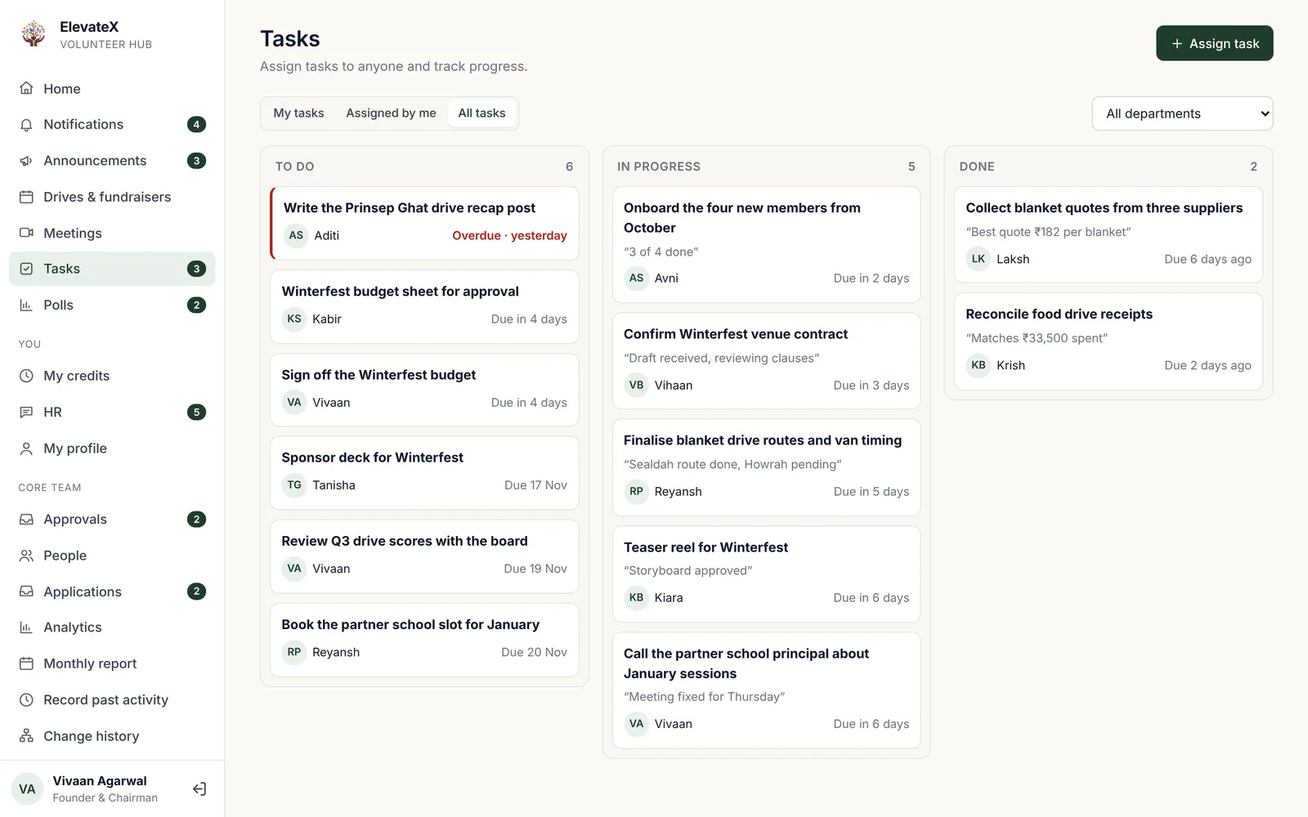
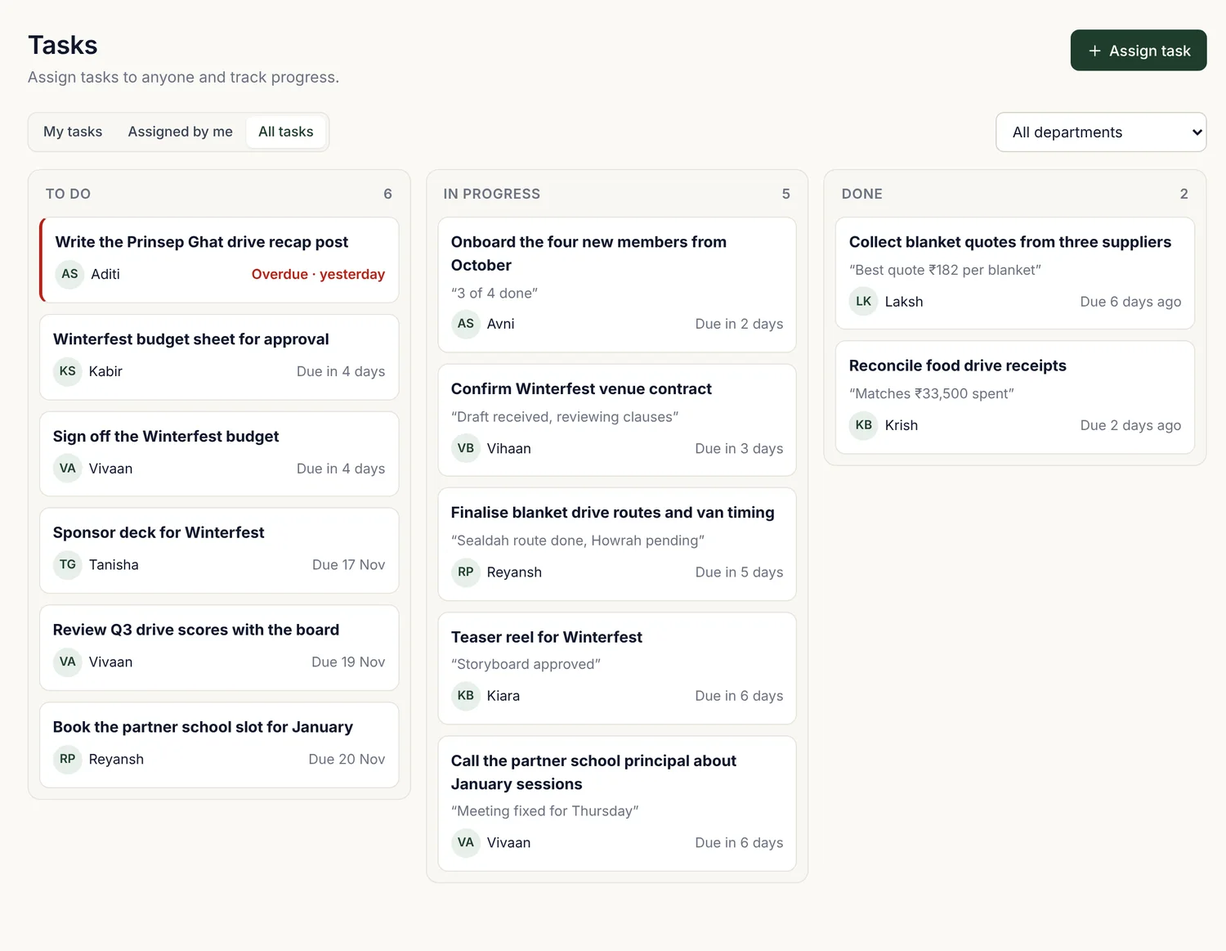
Volunteer Hub page: add to navbar, larger cropped screenshots, simpler layout
Claude-Session: https://claude.ai/code/session_01Lx7J7qeooFrwHwa6nHs7zz

diff --git a/volunteer-hub.html b/volunteer-hub.html
@@ -28,7 +28,7 @@
 <header class="site-header">
   <div class="wrap nav">
     <a href="index.html" class="brand"><img loading="lazy" decoding="async" src="logo-icon.png" alt="" width="38" height="38">ElevateX</a>
-    <nav class="nav-links" aria-label="Main"><a href="about.html">About</a><a href="welfare.html">Drives</a><a href="fundraising.html">Events</a><a href="unnati.html">Unnati</a><a href="team.html">Team</a><a href="timeline.html">Timeline</a><a href="blog.html">Blog</a><a href="resources.html">Resources</a></nav>
+    <nav class="nav-links" aria-label="Main"><a href="about.html">About</a><a href="welfare.html">Drives</a><a href="fundraising.html">Events</a><a href="unnati.html">Unnati</a><a href="volunteer-hub.html" aria-current=page>Hub</a><a href="team.html">Team</a><a href="timeline.html">Timeline</a><a href="blog.html">Blog</a><a href="resources.html">Resources</a></nav>
     <div class="nav-actions">
       <a href="contact.html" class="btn btn-ghost">Apply</a>
       <a href="https://hub.elevate-x.in" class="btn btn-primary">Volunteer login</a>
@@ -43,7 +43,7 @@
       <a href="index.html" class="brand"><img loading="lazy" decoding="async" src="logo-icon.png" alt="" width="38" height="38">ElevateX</a>
       <button class="sheet-close" aria-label="Close menu">×</button>
     </div>
-    <nav aria-label="Main"><a href="about.html">About</a><a href="welfare.html">Drives</a><a href="fundraising.html">Events</a><a href="unnati.html">Unnati</a><a href="team.html">Team</a><a href="timeline.html">Timeline</a><a href="blog.html">Blog</a><a href="resources.html">Resources</a></nav>
+    <nav aria-label="Main"><a href="about.html">About</a><a href="welfare.html">Drives</a><a href="fundraising.html">Events</a><a href="unnati.html">Unnati</a><a href="volunteer-hub.html" aria-current=page>Hub</a><a href="team.html">Team</a><a href="timeline.html">Timeline</a><a href="blog.html">Blog</a><a href="resources.html">Resources</a></nav>
     <div class="sheet-actions">
       <a href="contact.html" class="btn btn-ghost">Apply to join</a>
       <a href="https://hub.elevate-x.in" class="btn btn-primary">Volunteer login</a>
@@ -71,16 +71,6 @@
 </section>
 
 <section class="section tight">
-  <div class="wrap reveal">
-    <div class="stats">
-      <div class="stat"><b>1</b><span>place for every drive, meeting and task</span></div>
-      <div class="stat"><b>5</b><span>departments, each with its own workspace</span></div>
-      <div class="stat"><b>EDPI</b><span>score for every drive we run</span></div>
-    </div>
-  </div>
-</section>
-
-<section class="section tight">
   <div class="wrap split hub-split">
     <div class="prose reveal">
       <span class="eyebrow">Drives</span>
@@ -88,7 +78,7 @@
       <p>Any member can propose a drive. Someone from the core team reviews the plan and approves it, and everyone is notified the moment it goes live.</p>
       <p>Volunteering takes one tap. When a drive fills up, members join a waitlist and are told as soon as a spot opens. Every activity carries its own map link or meeting link, instructions and organiser.</p>
     </div>
-    <figure class="shot reveal"><div class="shot-bar"><i></i><i></i><i></i></div><img loading="lazy" decoding="async" width="1600" height="1000" src="hub/drive.webp" alt="A drive page in the Hub, showing details, instructions and a full drive with a waitlist"></figure>
+    <figure class="shot reveal"><div class="shot-bar"><i></i><i></i><i></i></div><img loading="lazy" decoding="async" width="1500" height="1163" src="hub/drive.webp" alt="A drive page in the Hub, showing details, instructions and a full drive with a waitlist"></figure>
   </div>
 </section>
 
@@ -100,7 +90,7 @@
       <p>Before a drive starts, the organiser locks a plan: the target, the budget and the number of volunteers. Afterwards we record what actually happened, and the Hub works out the drive's <a href="welfare.html">EDPI score</a>.</p>
       <p>Each drive ends with a one-page report, with the score, the money spent per person helped, photos and the full volunteer list. It's ready to print or share with a partner.</p>
     </div>
-    <figure class="shot reveal"><div class="shot-bar"><i></i><i></i><i></i></div><img loading="lazy" decoding="async" width="1600" height="1000" src="hub/report.webp" alt="A one-page drive report with an EDPI score of 110.8, people helped, budget and photos"></figure>
+    <figure class="shot reveal"><div class="shot-bar"><i></i><i></i><i></i></div><img loading="lazy" decoding="async" width="1500" height="1125" src="hub/report.webp" alt="A one-page drive report with an EDPI score of 110.8, people helped, budget and photos"></figure>
   </div>
 </section>
 
@@ -112,7 +102,7 @@
       <p>Everyone marked present at a drive, event or meeting gets credits automatically. Nobody can mark their own attendance. Members can see their own record at any time and use it to request a certificate.</p>
       <p>Leadership sees the whole picture: credits by month, drive scores side by side, and who's been showing up.</p>
     </div>
-    <figure class="shot reveal"><div class="shot-bar"><i></i><i></i><i></i></div><img loading="lazy" decoding="async" width="1600" height="1000" src="hub/analytics.webp" alt="Analytics with EDPI by drive, credits by month, drive scores and top contributors"></figure>
+    <figure class="shot reveal"><div class="shot-bar"><i></i><i></i><i></i></div><img loading="lazy" decoding="async" width="1500" height="801" src="hub/analytics.webp" alt="Analytics with EDPI by drive, credits by month, drive scores and top contributors"></figure>
   </div>
 </section>
 
@@ -124,7 +114,7 @@
       <p>Heads assign tasks within their department, and leadership can assign to anyone. Each task has an owner, a due date and a progress note, so nothing depends on remembering a WhatsApp message.</p>
       <p>Meetings, announcements and polls work the same way: aimed at exactly the right people, whether that's the whole organisation, one department or the board.</p>
     </div>
-    <figure class="shot reveal"><div class="shot-bar"><i></i><i></i><i></i></div><img loading="lazy" decoding="async" width="1600" height="1000" src="hub/tasks.webp" alt="A task board with to do, in progress and done columns across departments"></figure>
+    <figure class="shot reveal"><div class="shot-bar"><i></i><i></i><i></i></div><img loading="lazy" decoding="async" width="1500" height="1163" src="hub/tasks.webp" alt="A task board with to do, in progress and done columns across departments"></figure>
   </div>
 </section>
 
@@ -134,13 +124,15 @@
       <span class="eyebrow">Also in the Hub</span>
       <h2>The rest of the toolkit</h2>
     </div>
-    <div class="hub-grid">
-      <figure class="reveal"><div class="shot"><img loading="lazy" decoding="async" width="1600" height="1000" src="hub/applications.webp" alt="Applications inbox"></div><figcaption><b>Applications</b>Applications from this website arrive here. HR reviews them, and accepted applicants get an account in one click.</figcaption></figure>
-      <figure class="reveal"><div class="shot"><img loading="lazy" decoding="async" width="1600" height="1000" src="hub/polls.webp" alt="Polls with live results"></div><figcaption><b>Polls</b>Quick votes on themes, dates and venues, for everyone or for a single department.</figcaption></figure>
-      <figure class="reveal"><div class="shot"><img loading="lazy" decoding="async" width="1600" height="1000" src="hub/announcements.webp" alt="Announcement board"></div><figcaption><b>Announcements</b>One board for news, with read receipts, so important updates don't get lost in a group chat.</figcaption></figure>
-      <figure class="reveal"><div class="shot"><img loading="lazy" decoding="async" width="1600" height="1000" src="hub/monthly.webp" alt="Monthly report for October"></div><figcaption><b>Monthly report</b>Every month in one page, with activities, scores and how each department did, ready for the board.</figcaption></figure>
-      <figure class="reveal"><div class="shot"><img loading="lazy" decoding="async" width="1600" height="1000" src="hub/history.webp" alt="Change history log"></div><figcaption><b>Change history</b>Every change to people, credits, approvals and certificates is logged with who made it. Entries can't be edited.</figcaption></figure>
-      <figure class="reveal"><div class="shot"><img loading="lazy" decoding="async" width="1600" height="1000" src="hub/org.webp" alt="Organisation structure"></div><figcaption><b>Structure</b>Leadership, the Board of Advisors and five departments. Who you can reach, and who decides what, is always clear.</figcaption></figure>
+    <div class="hub-pair">
+      <figure class="reveal"><div class="shot"><div class="shot-bar"><i></i><i></i><i></i></div><img loading="lazy" decoding="async" width="1500" height="775" src="hub/applications.webp" alt="Applications inbox in the Hub with new, reviewing and interview statuses"></div><figcaption><b>Applications</b>Applications from this website arrive straight in the Hub. HR reviews them, and accepted applicants get an account in one click.</figcaption></figure>
+      <figure class="reveal"><div class="shot"><div class="shot-bar"><i></i><i></i><i></i></div><img loading="lazy" decoding="async" width="1500" height="905" src="hub/history.webp" alt="Change history showing who changed what and when"></div><figcaption><b>Change history</b>Every change to people, credits, approvals and certificates is logged with who made it. Nobody can edit or delete an entry.</figcaption></figure>
+    </div>
+    <div class="hub-cards">
+      <div class="reveal"><b>Announcements</b><span>One board for news, with read receipts, so updates don't get lost in a group chat.</span></div>
+      <div class="reveal"><b>Polls</b><span>Quick votes on themes, dates and venues, for everyone or for one department.</span></div>
+      <div class="reveal"><b>Monthly report</b><span>Each month on one page: activities, scores and how every department did.</span></div>
+      <div class="reveal"><b>HR and certificates</b><span>Feedback, department moves and certificate requests, with credits attached automatically.</span></div>
     </div>
   </div>
 </section>

diff --git a/_src/pages/volunteer-hub.html b/_src/pages/volunteer-hub.html
@@ -1,7 +1,7 @@
 <!--
 title: The Volunteer Hub
 description: How ElevateX runs: our members-only Volunteer Hub handles drive proposals, approvals, sign-ups, attendance, credits, EDPI scores and HR, all in one place.
-nav:
+nav: hub
 image: hub/dashboard.webp
 -->
 <section class="page-head">
@@ -19,16 +19,6 @@ image: hub/dashboard.webp
       <img src="hub/dashboard.webp" alt="The Volunteer Hub home screen, showing credits, a pinned announcement, upcoming meetings, tasks and drives" data-eager>
     </figure>
     <p class="shot-note">The Hub is for members only. Every screenshot on this page uses sample data, so no real member's details are shown.</p>
-  </div>
-</section>
-
-<section class="section tight">
-  <div class="wrap reveal">
-    <div class="stats">
-      <div class="stat"><b>1</b><span>place for every drive, meeting and task</span></div>
-      <div class="stat"><b>5</b><span>departments, each with its own workspace</span></div>
-      <div class="stat"><b>EDPI</b><span>score for every drive we run</span></div>
-    </div>
   </div>
 </section>
 
@@ -86,13 +76,15 @@ image: hub/dashboard.webp
       <span class="eyebrow">Also in the Hub</span>
       <h2>The rest of the toolkit</h2>
     </div>
-    <div class="hub-grid">
-      <figure class="reveal"><div class="shot"><img src="hub/applications.webp" alt="Applications inbox"></div><figcaption><b>Applications</b>Applications from this website arrive here. HR reviews them, and accepted applicants get an account in one click.</figcaption></figure>
-      <figure class="reveal"><div class="shot"><img src="hub/polls.webp" alt="Polls with live results"></div><figcaption><b>Polls</b>Quick votes on themes, dates and venues, for everyone or for a single department.</figcaption></figure>
-      <figure class="reveal"><div class="shot"><img src="hub/announcements.webp" alt="Announcement board"></div><figcaption><b>Announcements</b>One board for news, with read receipts, so important updates don't get lost in a group chat.</figcaption></figure>
-      <figure class="reveal"><div class="shot"><img src="hub/monthly.webp" alt="Monthly report for October"></div><figcaption><b>Monthly report</b>Every month in one page, with activities, scores and how each department did, ready for the board.</figcaption></figure>
-      <figure class="reveal"><div class="shot"><img src="hub/history.webp" alt="Change history log"></div><figcaption><b>Change history</b>Every change to people, credits, approvals and certificates is logged with who made it. Entries can't be edited.</figcaption></figure>
-      <figure class="reveal"><div class="shot"><img src="hub/org.webp" alt="Organisation structure"></div><figcaption><b>Structure</b>Leadership, the Board of Advisors and five departments. Who you can reach, and who decides what, is always clear.</figcaption></figure>
+    <div class="hub-pair">
+      <figure class="reveal"><div class="shot"><div class="shot-bar"><i></i><i></i><i></i></div><img src="hub/applications.webp" alt="Applications inbox in the Hub with new, reviewing and interview statuses"></div><figcaption><b>Applications</b>Applications from this website arrive straight in the Hub. HR reviews them, and accepted applicants get an account in one click.</figcaption></figure>
+      <figure class="reveal"><div class="shot"><div class="shot-bar"><i></i><i></i><i></i></div><img src="hub/history.webp" alt="Change history showing who changed what and when"></div><figcaption><b>Change history</b>Every change to people, credits, approvals and certificates is logged with who made it. Nobody can edit or delete an entry.</figcaption></figure>
+    </div>
+    <div class="hub-cards">
+      <div class="reveal"><b>Announcements</b><span>One board for news, with read receipts, so updates don't get lost in a group chat.</span></div>
+      <div class="reveal"><b>Polls</b><span>Quick votes on themes, dates and venues, for everyone or for one department.</span></div>
+      <div class="reveal"><b>Monthly report</b><span>Each month on one page: activities, scores and how every department did.</span></div>
+      <div class="reveal"><b>HR and certificates</b><span>Feedback, department moves and certificate requests, with credits attached automatically.</span></div>
     </div>
   </div>
 </section>

diff --git a/styles.css b/styles.css
@@ -428,16 +428,18 @@ a.card:hover .media img { transform: scale(1.03); }
 /* Volunteer Hub showcase */
 .shot { border: 1px solid var(--line); border-radius: 14px; overflow: hidden; background: #fff; box-shadow: 0 1px 2px rgba(23,25,28,.05), 0 18px 40px -18px rgba(23,25,28,.22); margin: 0; }
 .shot img { display: block; width: 100%; height: auto; }
-.shot-bar { display: flex; align-items: center; gap: 6px; padding: 10px 14px; background: var(--bg-2); border-bottom: 1px solid var(--line); }
+.shot-bar { display: flex; align-items: center; gap: 6px; padding: 9px 14px; background: var(--bg-2); border-bottom: 1px solid var(--line); }
 .shot-bar i { width: 10px; height: 10px; border-radius: 50%; background: #d9d3c6; }
 .shot-bar span { margin-left: 12px; font-size: 13px; color: var(--muted); background: #fff; border: 1px solid var(--line); border-radius: 6px; padding: 2px 12px; }
-.shot-hero { max-width: 1120px; margin: 0 auto; }
 .shot-note { text-align: center; font-size: 14px; color: var(--muted); margin: 16px 0 0; }
-.hub-split { grid-template-columns: 1fr 1.25fr; }
-.hub-split.flip { grid-template-columns: 1.25fr 1fr; }
-.hub-grid { display: grid; grid-template-columns: repeat(3, 1fr); gap: 28px; }
-.hub-grid figure { margin: 0; }
-.hub-grid figcaption { margin-top: 14px; font-size: 15px; color: var(--ink-2); line-height: 1.5; }
-.hub-grid figcaption b { display: block; color: var(--ink); font-size: 17px; margin-bottom: 4px; }
-@media (max-width: 960px) { .hub-split, .hub-split.flip { grid-template-columns: 1fr; } .hub-grid { grid-template-columns: repeat(2, 1fr); } }
-@media (max-width: 640px) { .hub-grid { grid-template-columns: 1fr; } .shot-bar span { display: none; } }
+.hub-split { grid-template-columns: 1fr 1.5fr; gap: 48px; }
+.hub-split.flip { grid-template-columns: 1.5fr 1fr; }
+.hub-pair { display: grid; grid-template-columns: 1fr 1fr; gap: 28px; }
+.hub-pair figure { margin: 0; }
+.hub-pair figcaption, .hub-cards span { font-size: 15px; color: var(--ink-2); line-height: 1.55; }
+.hub-pair figcaption { margin-top: 14px; }
+.hub-pair b, .hub-cards b { display: block; color: var(--ink); font-size: 17px; margin-bottom: 4px; }
+.hub-cards { display: grid; grid-template-columns: repeat(4, 1fr); gap: 18px; margin-top: 28px; }
+.hub-cards > div { background: var(--card); border: 1px solid var(--line); border-radius: var(--radius); padding: 20px; }
+@media (max-width: 960px) { .hub-split, .hub-split.flip, .hub-pair { grid-template-columns: 1fr; } .hub-cards { grid-template-columns: repeat(2, 1fr); } }
+@media (max-width: 560px) { .hub-cards { grid-template-columns: 1fr; } .shot-bar span { display: none; } }

diff --git a/about.html b/about.html
@@ -28,7 +28,7 @@
 <header class="site-header">
   <div class="wrap nav">
     <a href="index.html" class="brand"><img loading="lazy" decoding="async" src="logo-icon.png" alt="" width="38" height="38">ElevateX</a>
-    <nav class="nav-links" aria-label="Main"><a href="about.html" aria-current=page>About</a><a href="welfare.html">Drives</a><a href="fundraising.html">Events</a><a href="unnati.html">Unnati</a><a href="team.html">Team</a><a href="timeline.html">Timeline</a><a href="blog.html">Blog</a><a href="resources.html">Resources</a></nav>
+    <nav class="nav-links" aria-label="Main"><a href="about.html" aria-current=page>About</a><a href="welfare.html">Drives</a><a href="fundraising.html">Events</a><a href="unnati.html">Unnati</a><a href="volunteer-hub.html">Hub</a><a href="team.html">Team</a><a href="timeline.html">Timeline</a><a href="blog.html">Blog</a><a href="resources.html">Resources</a></nav>
     <div class="nav-actions">
       <a href="contact.html" class="btn btn-ghost">Apply</a>
       <a href="https://hub.elevate-x.in" class="btn btn-primary">Volunteer login</a>
@@ -43,7 +43,7 @@
       <a href="index.html" class="brand"><img loading="lazy" decoding="async" src="logo-icon.png" alt="" width="38" height="38">ElevateX</a>
       <button class="sheet-close" aria-label="Close menu">×</button>
     </div>
-    <nav aria-label="Main"><a href="about.html" aria-current=page>About</a><a href="welfare.html">Drives</a><a href="fundraising.html">Events</a><a href="unnati.html">Unnati</a><a href="team.html">Team</a><a href="timeline.html">Timeline</a><a href="blog.html">Blog</a><a href="resources.html">Resources</a></nav>
+    <nav aria-label="Main"><a href="about.html" aria-current=page>About</a><a href="welfare.html">Drives</a><a href="fundraising.html">Events</a><a href="unnati.html">Unnati</a><a href="volunteer-hub.html">Hub</a><a href="team.html">Team</a><a href="timeline.html">Timeline</a><a href="blog.html">Blog</a><a href="resources.html">Resources</a></nav>
     <div class="sheet-actions">
       <a href="contact.html" class="btn btn-ghost">Apply to join</a>
       <a href="https://hub.elevate-x.in" class="btn btn-primary">Volunteer login</a>

diff --git a/blog.html b/blog.html
@@ -28,7 +28,7 @@
 <header class="site-header">
   <div class="wrap nav">
     <a href="index.html" class="brand"><img loading="lazy" decoding="async" src="logo-icon.png" alt="" width="38" height="38">ElevateX</a>
-    <nav class="nav-links" aria-label="Main"><a href="about.html">About</a><a href="welfare.html">Drives</a><a href="fundraising.html">Events</a><a href="unnati.html">Unnati</a><a href="team.html">Team</a><a href="timeline.html">Timeline</a><a href="blog.html" aria-current=page>Blog</a><a href="resources.html">Resources</a></nav>
+    <nav class="nav-links" aria-label="Main"><a href="about.html">About</a><a href="welfare.html">Drives</a><a href="fundraising.html">Events</a><a href="unnati.html">Unnati</a><a href="volunteer-hub.html">Hub</a><a href="team.html">Team</a><a href="timeline.html">Timeline</a><a href="blog.html" aria-current=page>Blog</a><a href="resources.html">Resources</a></nav>
     <div class="nav-actions">
       <a href="contact.html" class="btn btn-ghost">Apply</a>
       <a href="https://hub.elevate-x.in" class="btn btn-primary">Volunteer login</a>
@@ -43,7 +43,7 @@
       <a href="index.html" class="brand"><img loading="lazy" decoding="async" src="logo-icon.png" alt="" width="38" height="38">ElevateX</a>
       <button class="sheet-close" aria-label="Close menu">×</button>
     </div>
-    <nav aria-label="Main"><a href="about.html">About</a><a href="welfare.html">Drives</a><a href="fundraising.html">Events</a><a href="unnati.html">Unnati</a><a href="team.html">Team</a><a href="timeline.html">Timeline</a><a href="blog.html" aria-current=page>Blog</a><a href="resources.html">Resources</a></nav>
+    <nav aria-label="Main"><a href="about.html">About</a><a href="welfare.html">Drives</a><a href="fundraising.html">Events</a><a href="unnati.html">Unnati</a><a href="volunteer-hub.html">Hub</a><a href="team.html">Team</a><a href="timeline.html">Timeline</a><a href="blog.html" aria-current=page>Blog</a><a href="resources.html">Resources</a></nav>
     <div class="sheet-actions">
       <a href="contact.html" class="btn btn-ghost">Apply to join</a>
       <a href="https://hub.elevate-x.in" class="btn btn-primary">Volunteer login</a>

diff --git a/blog1.html b/blog1.html
@@ -28,7 +28,7 @@
 <header class="site-header">
   <div class="wrap nav">
     <a href="index.html" class="brand"><img loading="lazy" decoding="async" src="logo-icon.png" alt="" width="38" height="38">ElevateX</a>
-    <nav class="nav-links" aria-label="Main"><a href="about.html">About</a><a href="welfare.html">Drives</a><a href="fundraising.html">Events</a><a href="unnati.html">Unnati</a><a href="team.html">Team</a><a href="timeline.html">Timeline</a><a href="blog.html" aria-current=page>Blog</a><a href="resources.html">Resources</a></nav>
+    <nav class="nav-links" aria-label="Main"><a href="about.html">About</a><a href="welfare.html">Drives</a><a href="fundraising.html">Events</a><a href="unnati.html">Unnati</a><a href="volunteer-hub.html">Hub</a><a href="team.html">Team</a><a href="timeline.html">Timeline</a><a href="blog.html" aria-current=page>Blog</a><a href="resources.html">Resources</a></nav>
     <div class="nav-actions">
       <a href="contact.html" class="btn btn-ghost">Apply</a>
       <a href="https://hub.elevate-x.in" class="btn btn-primary">Volunteer login</a>
@@ -43,7 +43,7 @@
       <a href="index.html" class="brand"><img loading="lazy" decoding="async" src="logo-icon.png" alt="" width="38" height="38">ElevateX</a>
       <button class="sheet-close" aria-label="Close menu">×</button>
     </div>
-    <nav aria-label="Main"><a href="about.html">About</a><a href="welfare.html">Drives</a><a href="fundraising.html">Events</a><a href="unnati.html">Unnati</a><a href="team.html">Team</a><a href="timeline.html">Timeline</a><a href="blog.html" aria-current=page>Blog</a><a href="resources.html">Resources</a></nav>
+    <nav aria-label="Main"><a href="about.html">About</a><a href="welfare.html">Drives</a><a href="fundraising.html">Events</a><a href="unnati.html">Unnati</a><a href="volunteer-hub.html">Hub</a><a href="team.html">Team</a><a href="timeline.html">Timeline</a><a href="blog.html" aria-current=page>Blog</a><a href="resources.html">Resources</a></nav>
     <div class="sheet-actions">
       <a href="contact.html" class="btn btn-ghost">Apply to join</a>
       <a href="https://hub.elevate-x.in" class="btn btn-primary">Volunteer login</a>

diff --git a/blog2.html b/blog2.html
@@ -28,7 +28,7 @@
 <header class="site-header">
   <div class="wrap nav">
     <a href="index.html" class="brand"><img loading="lazy" decoding="async" src="logo-icon.png" alt="" width="38" height="38">ElevateX</a>
-    <nav class="nav-links" aria-label="Main"><a href="about.html">About</a><a href="welfare.html">Drives</a><a href="fundraising.html">Events</a><a href="unnati.html">Unnati</a><a href="team.html">Team</a><a href="timeline.html">Timeline</a><a href="blog.html" aria-current=page>Blog</a><a href="resources.html">Resources</a></nav>
+    <nav class="nav-links" aria-label="Main"><a href="about.html">About</a><a href="welfare.html">Drives</a><a href="fundraising.html">Events</a><a href="unnati.html">Unnati</a><a href="volunteer-hub.html">Hub</a><a href="team.html">Team</a><a href="timeline.html">Timeline</a><a href="blog.html" aria-current=page>Blog</a><a href="resources.html">Resources</a></nav>
     <div class="nav-actions">
       <a href="contact.html" class="btn btn-ghost">Apply</a>
       <a href="https://hub.elevate-x.in" class="btn btn-primary">Volunteer login</a>
@@ -43,7 +43,7 @@
       <a href="index.html" class="brand"><img loading="lazy" decoding="async" src="logo-icon.png" alt="" width="38" height="38">ElevateX</a>
       <button class="sheet-close" aria-label="Close menu">×</button>
     </div>
-    <nav aria-label="Main"><a href="about.html">About</a><a href="welfare.html">Drives</a><a href="fundraising.html">Events</a><a href="unnati.html">Unnati</a><a href="team.html">Team</a><a href="timeline.html">Timeline</a><a href="blog.html" aria-current=page>Blog</a><a href="resources.html">Resources</a></nav>
+    <nav aria-label="Main"><a href="about.html">About</a><a href="welfare.html">Drives</a><a href="fundraising.html">Events</a><a href="unnati.html">Unnati</a><a href="volunteer-hub.html">Hub</a><a href="team.html">Team</a><a href="timeline.html">Timeline</a><a href="blog.html" aria-current=page>Blog</a><a href="resources.html">Resources</a></nav>
     <div class="sheet-actions">
       <a href="contact.html" class="btn btn-ghost">Apply to join</a>
       <a href="https://hub.elevate-x.in" class="btn btn-primary">Volunteer login</a>

diff --git a/blog3.html b/blog3.html
@@ -28,7 +28,7 @@
 <header class="site-header">
   <div class="wrap nav">
     <a href="index.html" class="brand"><img loading="lazy" decoding="async" src="logo-icon.png" alt="" width="38" height="38">ElevateX</a>
-    <nav class="nav-links" aria-label="Main"><a href="about.html">About</a><a href="welfare.html">Drives</a><a href="fundraising.html">Events</a><a href="unnati.html">Unnati</a><a href="team.html">Team</a><a href="timeline.html">Timeline</a><a href="blog.html" aria-current=page>Blog</a><a href="resources.html">Resources</a></nav>
+    <nav class="nav-links" aria-label="Main"><a href="about.html">About</a><a href="welfare.html">Drives</a><a href="fundraising.html">Events</a><a href="unnati.html">Unnati</a><a href="volunteer-hub.html">Hub</a><a href="team.html">Team</a><a href="timeline.html">Timeline</a><a href="blog.html" aria-current=page>Blog</a><a href="resources.html">Resources</a></nav>
     <div class="nav-actions">
       <a href="contact.html" class="btn btn-ghost">Apply</a>
       <a href="https://hub.elevate-x.in" class="btn btn-primary">Volunteer login</a>
@@ -43,7 +43,7 @@
       <a href="index.html" class="brand"><img loading="lazy" decoding="async" src="logo-icon.png" alt="" width="38" height="38">ElevateX</a>
       <button class="sheet-close" aria-label="Close menu">×</button>
     </div>
-    <nav aria-label="Main"><a href="about.html">About</a><a href="welfare.html">Drives</a><a href="fundraising.html">Events</a><a href="unnati.html">Unnati</a><a href="team.html">Team</a><a href="timeline.html">Timeline</a><a href="blog.html" aria-current=page>Blog</a><a href="resources.html">Resources</a></nav>
+    <nav aria-label="Main"><a href="about.html">About</a><a href="welfare.html">Drives</a><a href="fundraising.html">Events</a><a href="unnati.html">Unnati</a><a href="volunteer-hub.html">Hub</a><a href="team.html">Team</a><a href="timeline.html">Timeline</a><a href="blog.html" aria-current=page>Blog</a><a href="resources.html">Resources</a></nav>
     <div class="sheet-actions">
       <a href="contact.html" class="btn btn-ghost">Apply to join</a>
       <a href="https://hub.elevate-x.in" class="btn btn-primary">Volunteer login</a>

diff --git a/blog4.html b/blog4.html
@@ -28,7 +28,7 @@
 <header class="site-header">
   <div class="wrap nav">
     <a href="index.html" class="brand"><img loading="lazy" decoding="async" src="logo-icon.png" alt="" width="38" height="38">ElevateX</a>
-    <nav class="nav-links" aria-label="Main"><a href="about.html">About</a><a href="welfare.html">Drives</a><a href="fundraising.html">Events</a><a href="unnati.html">Unnati</a><a href="team.html">Team</a><a href="timeline.html">Timeline</a><a href="blog.html" aria-current=page>Blog</a><a href="resources.html">Resources</a></nav>
+    <nav class="nav-links" aria-label="Main"><a href="about.html">About</a><a href="welfare.html">Drives</a><a href="fundraising.html">Events</a><a href="unnati.html">Unnati</a><a href="volunteer-hub.html">Hub</a><a href="team.html">Team</a><a href="timeline.html">Timeline</a><a href="blog.html" aria-current=page>Blog</a><a href="resources.html">Resources</a></nav>
     <div class="nav-actions">
       <a href="contact.html" class="btn btn-ghost">Apply</a>
       <a href="https://hub.elevate-x.in" class="btn btn-primary">Volunteer login</a>
@@ -43,7 +43,7 @@
       <a href="index.html" class="brand"><img loading="lazy" decoding="async" src="logo-icon.png" alt="" width="38" height="38">ElevateX</a>
       <button class="sheet-close" aria-label="Close menu">×</button>
     </div>
-    <nav aria-label="Main"><a href="about.html">About</a><a href="welfare.html">Drives</a><a href="fundraising.html">Events</a><a href="unnati.html">Unnati</a><a href="team.html">Team</a><a href="timeline.html">Timeline</a><a href="blog.html" aria-current=page>Blog</a><a href="resources.html">Resources</a></nav>
+    <nav aria-label="Main"><a href="about.html">About</a><a href="welfare.html">Drives</a><a href="fundraising.html">Events</a><a href="unnati.html">Unnati</a><a href="volunteer-hub.html">Hub</a><a href="team.html">Team</a><a href="timeline.html">Timeline</a><a href="blog.html" aria-current=page>Blog</a><a href="resources.html">Resources</a></nav>
     <div class="sheet-actions">
       <a href="contact.html" class="btn btn-ghost">Apply to join</a>
       <a href="https://hub.elevate-x.in" class="btn btn-primary">Volunteer login</a>

diff --git a/euphoria.html b/euphoria.html
@@ -28,7 +28,7 @@
 <header class="site-header">
   <div class="wrap nav">
     <a href="index.html" class="brand"><img loading="lazy" decoding="async" src="logo-icon.png" alt="" width="38" height="38">ElevateX</a>
-    <nav class="nav-links" aria-label="Main"><a href="about.html">About</a><a href="welfare.html">Drives</a><a href="fundraising.html" aria-current=page>Events</a><a href="unnati.html">Unnati</a><a href="team.html">Team</a><a href="timeline.html">Timeline</a><a href="blog.html">Blog</a><a href="resources.html">Resources</a></nav>
+    <nav class="nav-links" aria-label="Main"><a href="about.html">About</a><a href="welfare.html">Drives</a><a href="fundraising.html" aria-current=page>Events</a><a href="unnati.html">Unnati</a><a href="volunteer-hub.html">Hub</a><a href="team.html">Team</a><a href="timeline.html">Timeline</a><a href="blog.html">Blog</a><a href="resources.html">Resources</a></nav>
     <div class="nav-actions">
       <a href="contact.html" class="btn btn-ghost">Apply</a>
       <a href="https://hub.elevate-x.in" class="btn btn-primary">Volunteer login</a>
@@ -43,7 +43,7 @@
       <a href="index.html" class="brand"><img loading="lazy" decoding="async" src="logo-icon.png" alt="" width="38" height="38">ElevateX</a>
       <button class="sheet-close" aria-label="Close menu">×</button>
     </div>
-    <nav aria-label="Main"><a href="about.html">About</a><a href="welfare.html">Drives</a><a href="fundraising.html" aria-current=page>Events</a><a href="unnati.html">Unnati</a><a href="team.html">Team</a><a href="timeline.html">Timeline</a><a href="blog.html">Blog</a><a href="resources.html">Resources</a></nav>
+    <nav aria-label="Main"><a href="about.html">About</a><a href="welfare.html">Drives</a><a href="fundraising.html" aria-current=page>Events</a><a href="unnati.html">Unnati</a><a href="volunteer-hub.html">Hub</a><a href="team.html">Team</a><a href="timeline.html">Timeline</a><a href="blog.html">Blog</a><a href="resources.html">Resources</a></nav>
     <div class="sheet-actions">
       <a href="contact.html" class="btn btn-ghost">Apply to join</a>
       <a href="https://hub.elevate-x.in" class="btn btn-primary">Volunteer login</a>

diff --git a/founder.html b/founder.html
@@ -28,7 +28,7 @@
 <header class="site-header">
   <div class="wrap nav">
     <a href="index.html" class="brand"><img loading="lazy" decoding="async" src="logo-icon.png" alt="" width="38" height="38">ElevateX</a>
-    <nav class="nav-links" aria-label="Main"><a href="about.html">About</a><a href="welfare.html">Drives</a><a href="fundraising.html">Events</a><a href="unnati.html">Unnati</a><a href="team.html" aria-current=page>Team</a><a href="timeline.html">Timeline</a><a href="blog.html">Blog</a><a href="resources.html">Resources</a></nav>
+    <nav class="nav-links" aria-label="Main"><a href="about.html">About</a><a href="welfare.html">Drives</a><a href="fundraising.html">Events</a><a href="unnati.html">Unnati</a><a href="volunteer-hub.html">Hub</a><a href="team.html" aria-current=page>Team</a><a href="timeline.html">Timeline</a><a href="blog.html">Blog</a><a href="resources.html">Resources</a></nav>
     <div class="nav-actions">
       <a href="contact.html" class="btn btn-ghost">Apply</a>
       <a href="https://hub.elevate-x.in" class="btn btn-primary">Volunteer login</a>
@@ -43,7 +43,7 @@
       <a href="index.html" class="brand"><img loading="lazy" decoding="async" src="logo-icon.png" alt="" width="38" height="38">ElevateX</a>
       <button class="sheet-close" aria-label="Close menu">×</button>
     </div>
-    <nav aria-label="Main"><a href="about.html">About</a><a href="welfare.html">Drives</a><a href="fundraising.html">Events</a><a href="unnati.html">Unnati</a><a href="team.html" aria-current=page>Team</a><a href="timeline.html">Timeline</a><a href="blog.html">Blog</a><a href="resources.html">Resources</a></nav>
+    <nav aria-label="Main"><a href="about.html">About</a><a href="welfare.html">Drives</a><a href="fundraising.html">Events</a><a href="unnati.html">Unnati</a><a href="volunteer-hub.html">Hub</a><a href="team.html" aria-current=page>Team</a><a href="timeline.html">Timeline</a><a href="blog.html">Blog</a><a href="resources.html">Resources</a></nav>
     <div class="sheet-actions">
       <a href="contact.html" class="btn btn-ghost">Apply to join</a>
       <a href="https://hub.elevate-x.in" class="btn btn-primary">Volunteer login</a>

diff --git a/founder2.html b/founder2.html
@@ -28,7 +28,7 @@
 <header class="site-header">
   <div class="wrap nav">
     <a href="index.html" class="brand"><img loading="lazy" decoding="async" src="logo-icon.png" alt="" width="38" height="38">ElevateX</a>
-    <nav class="nav-links" aria-label="Main"><a href="about.html">About</a><a href="welfare.html">Drives</a><a href="fundraising.html">Events</a><a href="unnati.html">Unnati</a><a href="team.html" aria-current=page>Team</a><a href="timeline.html">Timeline</a><a href="blog.html">Blog</a><a href="resources.html">Resources</a></nav>
+    <nav class="nav-links" aria-label="Main"><a href="about.html">About</a><a href="welfare.html">Drives</a><a href="fundraising.html">Events</a><a href="unnati.html">Unnati</a><a href="volunteer-hub.html">Hub</a><a href="team.html" aria-current=page>Team</a><a href="timeline.html">Timeline</a><a href="blog.html">Blog</a><a href="resources.html">Resources</a></nav>
     <div class="nav-actions">
       <a href="contact.html" class="btn btn-ghost">Apply</a>
       <a href="https://hub.elevate-x.in" class="btn btn-primary">Volunteer login</a>
@@ -43,7 +43,7 @@
       <a href="index.html" class="brand"><img loading="lazy" decoding="async" src="logo-icon.png" alt="" width="38" height="38">ElevateX</a>
       <button class="sheet-close" aria-label="Close menu">×</button>
     </div>
-    <nav aria-label="Main"><a href="about.html">About</a><a href="welfare.html">Drives</a><a href="fundraising.html">Events</a><a href="unnati.html">Unnati</a><a href="team.html" aria-current=page>Team</a><a href="timeline.html">Timeline</a><a href="blog.html">Blog</a><a href="resources.html">Resources</a></nav>
+    <nav aria-label="Main"><a href="about.html">About</a><a href="welfare.html">Drives</a><a href="fundraising.html">Events</a><a href="unnati.html">Unnati</a><a href="volunteer-hub.html">Hub</a><a href="team.html" aria-current=page>Team</a><a href="timeline.html">Timeline</a><a href="blog.html">Blog</a><a href="resources.html">Resources</a></nav>
     <div class="sheet-actions">
       <a href="contact.html" class="btn btn-ghost">Apply to join</a>
       <a href="https://hub.elevate-x.in" class="btn btn-primary">Volunteer login</a>
